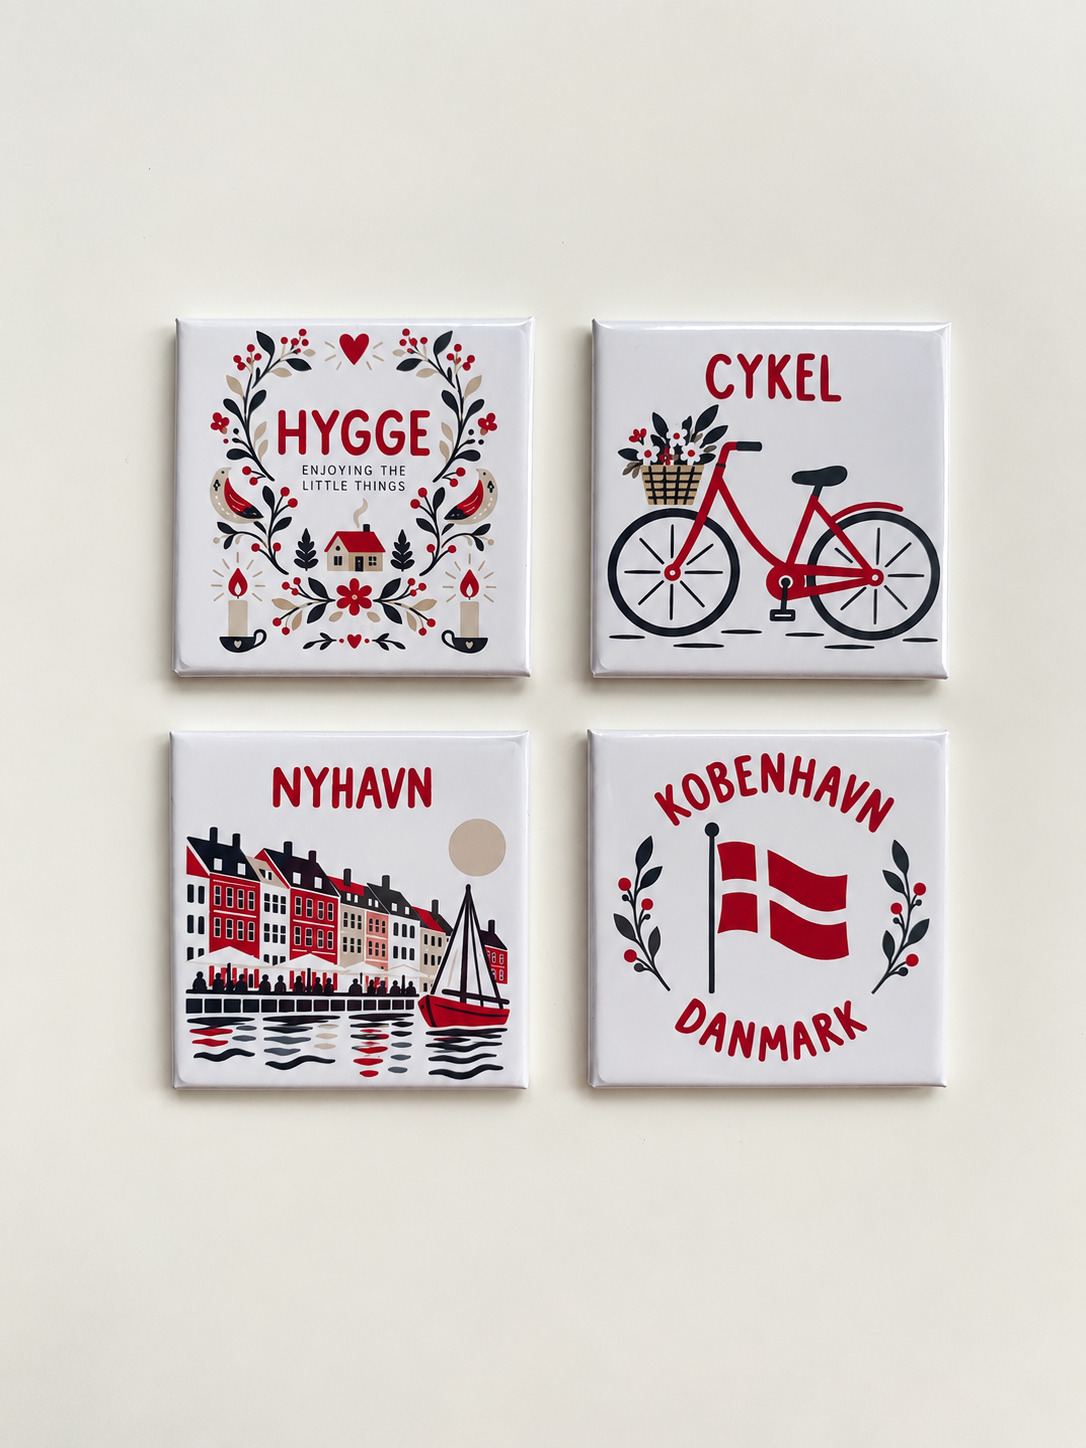
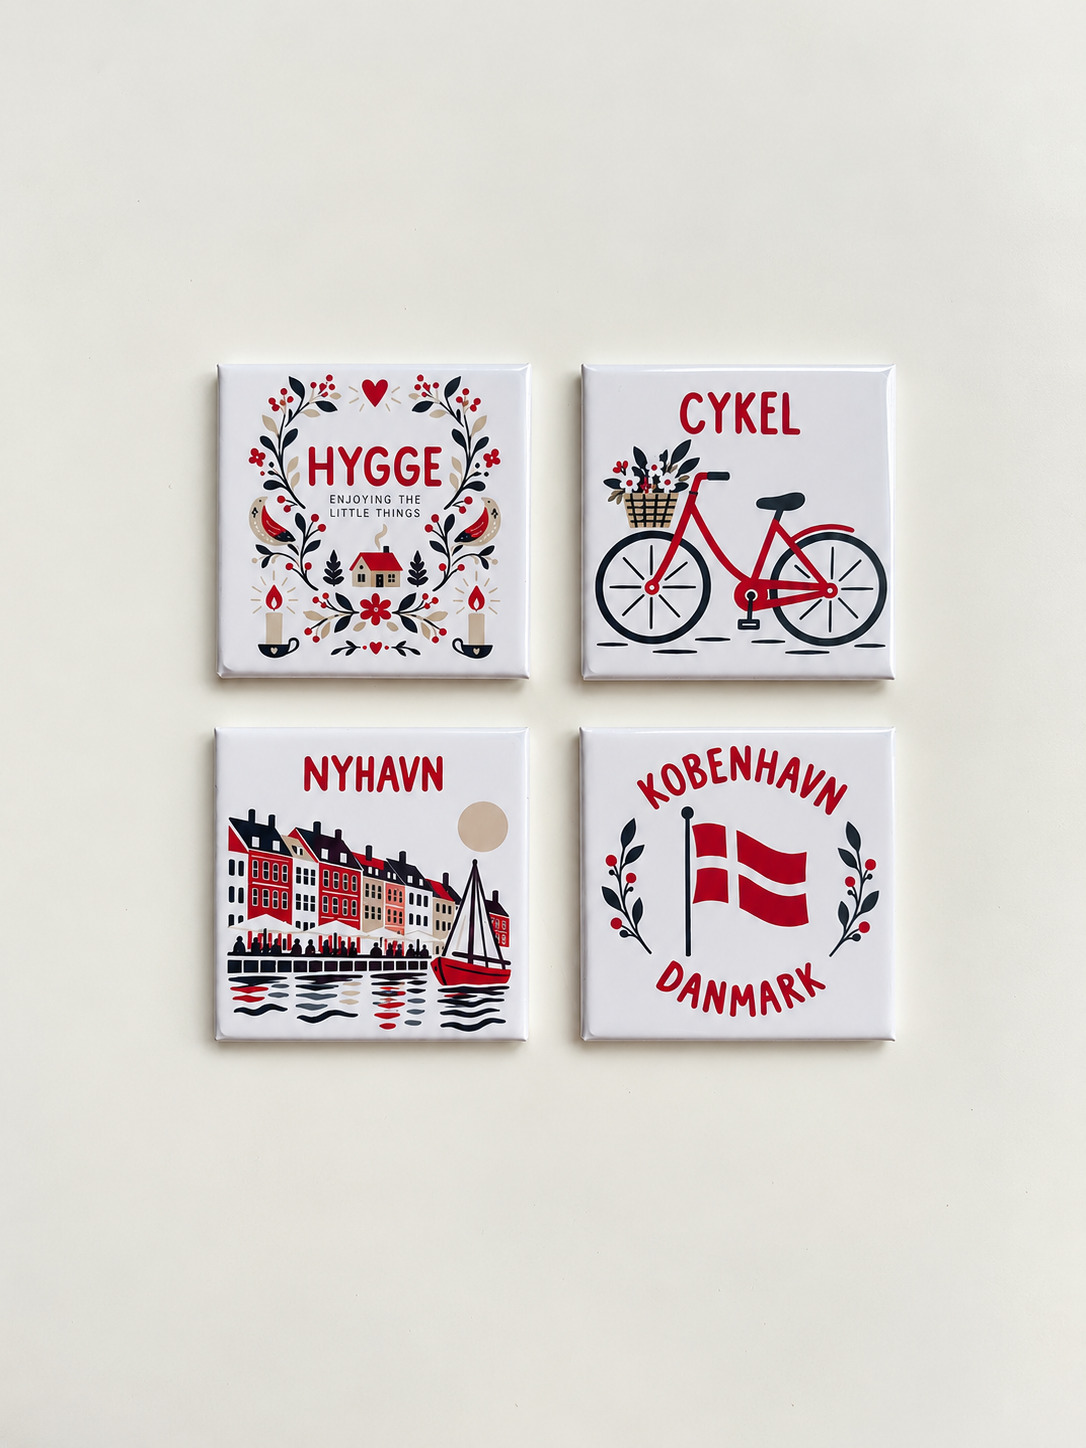
Redesign hero section with transparent box overlay
Hero redesign changes:
- Replace dark gradient overlay with semi-transparent linen box (rgba 0.35)
- Add backdrop-filter blur(4px) with webkit prefix
- Position content box with fit-content width, max-width 820px desktop
- Add text-shadow to title and subtitle for readability

Title updates:
- Split into two lines: "Give your home a little" / "more of you."
- Second line "more of you." in burgundy (#86123E)
- First line in off-white (#FCFBF9)
- Mobile: hide <br>, natural line break
- Desktop: show <br>, two defined lines

Subtitle updates:
- Increase font-size: 17px mobile, 20px desktop
- Color: off-white (#FCFBF9) with text-shadow
- Desktop: white-space nowrap (single line)
- Mobile: natural line wrapping
- Remove max-width constraint

Button updates:
- Background: linen (#EDE6DA)
- Text: burgundy (#86123E)
- Hover: opacity 0.9

Box styling:
- Desktop: padding 32px 48px, left 40px
- Mobile: padding 28px 24px, 16px margins
- Border-radius: 4px maintained
- Always width: fit-content

Image updates:
- Mobile: object-position 75% center (show fridge + magnets)
- Desktop: object-position center

Changed region(s): [[0.1215, 0.2175, 0.8812, 0.7769]]

diff --git a/index.html b/index.html
@@ -250,33 +250,26 @@
             padding: 0;
         }
 
-        .hero::before {
-            content: '';
-            position: absolute;
-            top: 0;
-            left: 0;
-            width: 100%;
-            height: 100%;
-            background: linear-gradient(to right, rgba(26,22,20,0.55) 0%, rgba(26,22,20,0.15) 40%, transparent 70%);
-            z-index: 1;
-            pointer-events: none;
-        }
-
         .hero-image {
             width: 100%;
             height: 100%;
             object-fit: cover;
-            object-position: center;
+            object-position: 75% center;
             display: block;
         }
 
         .hero-content {
             position: absolute;
             top: 50%;
-            left: 20px;
+            left: 16px;
+            right: 16px;
             transform: translateY(-50%);
             z-index: 10;
-            max-width: 900px;
+            background: rgba(237, 230, 218, 0.35);
+            -webkit-backdrop-filter: blur(4px);
+            backdrop-filter: blur(4px);
+            border-radius: 4px;
+            padding: 28px 24px;
         }
 
         .hero h1 {
@@ -284,29 +277,30 @@
             font-size: 30px;
             line-height: 1.2;
             text-align: left;
-            color: var(--off-white);
-            margin-bottom: 20px;
+            color: #FCFBF9;
+            text-shadow: 0 1px 12px rgba(26, 22, 20, 0.45);
+            margin-bottom: 16px;
         }
 
-        .hero h1 .nowrap {
-            white-space: normal;
+        .hero h1 br {
+            display: none;
         }
 
         .hero-subtitle {
             font-family: var(--font-body);
-            font-size: 13px;
+            font-size: 17px;
             font-weight: 300;
-            line-height: 1.5;
-            color: var(--off-white);
-            opacity: 0.85;
+            line-height: 1.6;
+            color: #FCFBF9;
+            text-shadow: 0 1px 12px rgba(26, 22, 20, 0.45);
             margin-bottom: 28px;
         }
 
         .hero-cta {
             display: inline-block;
             padding: 14px 32px;
-            background: var(--off-white);
-            color: var(--burgundy);
+            background: #EDE6DA;
+            color: #86123E;
             text-decoration: none;
             font-size: 13px;
             font-weight: 500;
@@ -463,11 +457,6 @@
             aspect-ratio: 3 / 2;
             object-fit: cover;
             border-radius: 8px;
-        }
-
-        /* Collections image: contain to show full square image */
-        .editorial-image img[src*="line-collections.jpg"] {
-            object-fit: contain;
         }
 
         .editorial-content h3 {
@@ -707,8 +696,29 @@
                 height: 600px;
             }
 
+            .hero-image {
+                object-position: center;
+            }
+
+            .hero-content {
+                left: 40px;
+                right: auto;
+                padding: 32px 48px;
+                width: fit-content;
+                max-width: 820px;
+            }
+
             .hero h1 {
                 font-size: 60px;
+            }
+
+            .hero h1 br {
+                display: block;
+            }
+
+            .hero-subtitle {
+                font-size: 20px;
+                white-space: nowrap;
             }
 
             .trust-icons {
@@ -829,8 +839,8 @@
     <section class="hero">
         <img class="hero-image" src="images/hero-home.jpg" alt="MINNK custom photo magnets on warm surface">
         <div class="hero-content">
-            <h1><span class="nowrap">Your photos. Your places. Your business.</span><br>All made to last.</h1>
-            <p class="hero-subtitle">Custom photo magnets designed and made in Copenhagen</p>
+            <h1>Give your home a little<br><span style="color: #86123E;">more of you.</span></h1>
+            <p class="hero-subtitle">Magnets for the photos, places and reminders you want within reach.</p>
             <a href="your-photos.html" class="hero-cta">Shop Your Photos</a>
         </div>
     </section>
